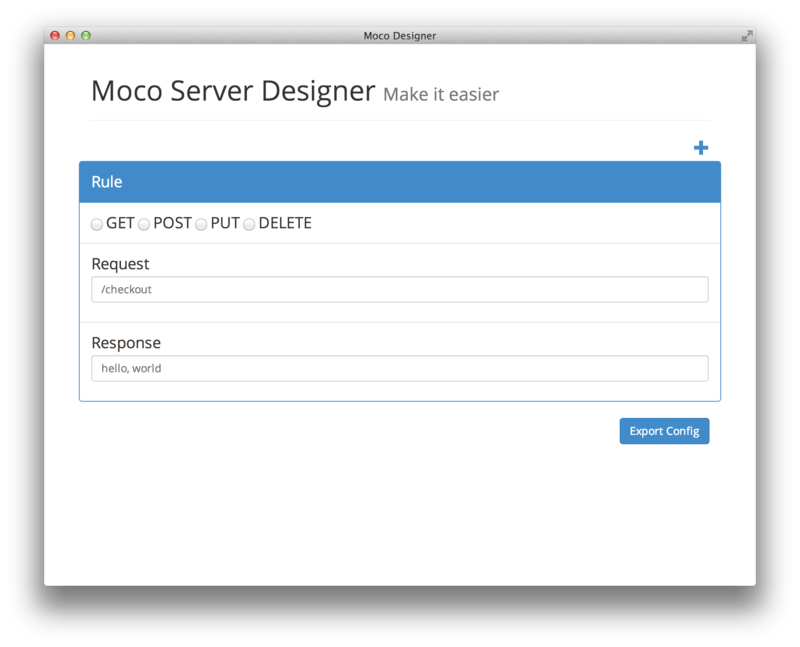
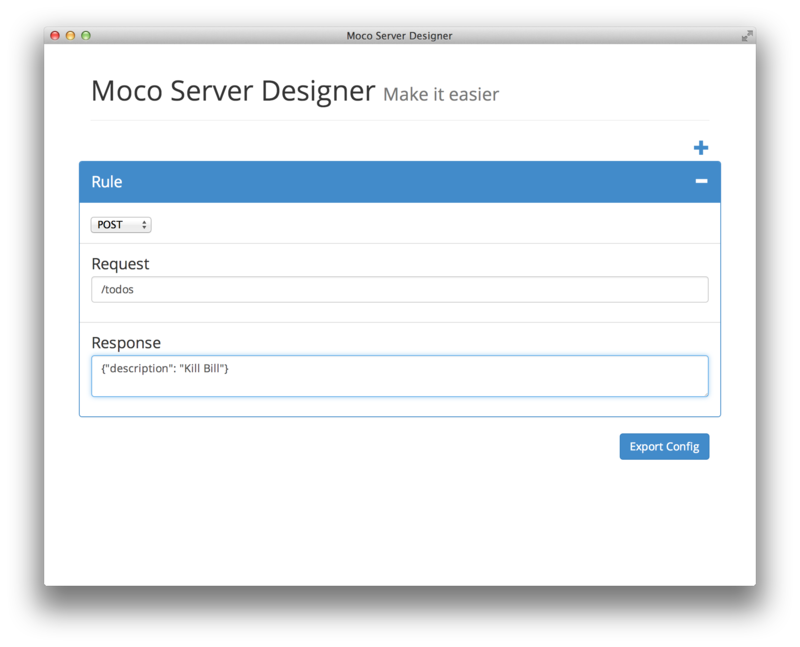
make it work, add rule, exporting, context-menu are now working

diff --git a/public/main.js b/public/main.js
@@ -1,27 +1,92 @@
 var file = require('file.js');
+var fragement = null;
+
+function Menu(cutLabel, copyLabel, pasteLabel) {
+  var gui = require('nw.gui')
+    , menu = new gui.Menu()
+
+    , cut = new gui.MenuItem({
+      label: cutLabel || "Cut"
+      , click: function() {
+        document.execCommand("cut");
+      }
+    })
+
+    , copy = new gui.MenuItem({
+      label: copyLabel || "Copy"
+      , click: function() {
+        document.execCommand("copy");
+      }
+    })
+
+    , paste = new gui.MenuItem({
+      label: pasteLabel || "Paste"
+      , click: function() {
+        document.execCommand("paste");
+      }
+    })
+  ;
+
+  menu.append(cut);
+  menu.append(copy);
+  menu.append(paste);
+
+  return menu;
+}
 
 $(function() {
 	$("#export").on("click", function() {
 		chooseFile("#save");
 	});
 
-  function chooseFile(id) {
-    var chooser = $(id);
-    chooser.change(function(evt) {
-    	var config = $("#config").text();
-		var filename = $(this).val();
-		file.save(filename, config);
-    });
+	file.read("rule.html", function(error, content) {
+		fragement = content;
+	});
 
-    chooser.trigger('click');
-  }
+	$("#addRule").on("click", function() {
+		$("#rules").append(fragement);
+	});
 
-	// var handler = function() {
-	// 	var config = $("#config").text();
-	// 	var filename = $(this).val();
-	// 	alert(filename);
-	// 	// file.save(filename, config);
-	// };
+	$("#rules").on("click", "a.remove", function(event) {
+		event.preventDefault();
+		$(this).closest(".row").remove();
+	})
 
-	// $("#export").on('change', handler);
+	function generateMocoConf() {
+		var rules = $("#rules .row");
+		var config = [];
+
+		$(rules).each(function(index, item) {
+			var method = $('select[name="method"]', item).val();
+			config.push({
+				request: {
+					method: method,
+					uri: $('input[name="uri"]', item).val()
+				},
+				response: {
+					text: $('textarea[name="text"]', item).val()
+				}
+			});
+		});
+
+		return JSON.stringify(config, null, 4);
+	}
+
+	function chooseFile(id) {
+		var chooser = $(id);
+		chooser.change(function(evt) {
+			var config = generateMocoConf();
+			var filename = $(this).val();
+			file.save(filename, config);
+		});
+
+		chooser.trigger('click');
+	}
+
+  var menu = new Menu();
+  $(document).on("contextmenu", function(e) {
+    e.preventDefault();
+    menu.popup(e.originalEvent.x, e.originalEvent.y);
+  });
+
 });

diff --git a/public/index.html b/public/index.html
@@ -4,7 +4,7 @@
     <meta charset="utf-8">
     <meta http-equiv="X-UA-Compatible" content="IE=edge">
     <meta name="viewport" content="width=device-width, initial-scale=1">
-    <title>Moco Designer</title>
+    <title>Moco Server Designer</title>
 
     <link href="style/bootstrap/css/bootstrap.min.css" rel="stylesheet">
     <link href="style/style.css" rel="stylesheet">
@@ -16,43 +16,13 @@
 
     <div class="row">
     	<div class="col-lg-12 col-md-12">
-    		<a href="#" class="pull-right">
+    		<a id="addRule" href="#" class="pull-right">
     			<span class="glyphicon glyphicon-plus"></span>
     		</a>
     	</div>
     </div>
 
-
-    <div class="row">
-		<div class="panel panel-primary">
-		  <div class="panel-heading">Rule
-		  	<a href="#" class="pull-right">
-		  		<span class="glyphicon glyphicon-minus"></span>
-		  	</a>
-		  </div>
-		  <ul class="list-group">
-		  	<li class="list-group-item">
-		  		<div class="input-group">
-			        <input type="radio" name="method" selected="selected"> GET
-			        <input type="radio" name="method"> POST
-			        <input type="radio" name="method"> PUT
-			        <input type="radio" name="method"> DELETE 
-			    </div>
-		  	</li>
-		    <li class="list-group-item">
-		    	Request
-		    	<div class="form-group">
-		    		<input type="text" class="form-control" placeholder="/checkout">
-			    </div>
-		    </li>
-		    <li class="list-group-item">
-		    	Response
-		    	<div class="form-group">
-		    		<input type="text" class="form-control" placeholder="hello, world">
-			    </div>
-		    </li>
-		  </ul>
-		</div>
+    <div id="rules">
     </div>
 	
 	<div class="row">
@@ -63,12 +33,12 @@
     	</div>
     </div>
 
-	<input id="save" type="file" nwsaveas style="display:none" accept="text/*"/>
-	<textarea id="config" style="display:none">{}</textarea>
+    <div class="footer">
+    </div>
 
-    <!-- jQuery (necessary for Bootstrap's JavaScript plugins) -->
+	<input id="save" type="file" nwsaveas style="display:none" accept="text/*"/>
+
     <script src="scripts/jquery.min.js"></script>
-    <!-- Include all compiled plugins (below), or include individual files as needed -->
     <script src="style/bootstrap/js/bootstrap.min.js"></script>
     <script type="text/javascript" src="main.js"></script>
   </body>

diff --git a/public/rule.html b/public/rule.html
@@ -1,0 +1,34 @@
+<div class="row">
+	<div class="panel panel-primary">
+	  <div class="panel-heading">Rule
+	  	<a href="#" class="pull-right remove">
+	  		<span class="glyphicon glyphicon-minus"></span>
+	  	</a>
+	  </div>
+	  <ul class="list-group">
+	  	<li class="list-group-item">
+	  		<div class="input-group">
+	  			<select name="method">
+	  				<option value="get" selected="true">GET</option>
+	  				<option value="post">POST</option>
+	  				<option value="put">PUT</option>
+	  				<option value="delete">DELETE</option>
+	  			</select>
+		    </div>
+	  	</li>
+	    <li class="list-group-item">
+	    	Request
+	    	<div class="form-group">
+	    		<input type="text" class="form-control" name="uri" placeholder="/checkout">
+		    </div>
+	    </li>
+	    <li class="list-group-item">
+	    	Response
+	    	<div class="form-group">
+	    		<textarea class="form-control" name="text" placeholder="content"></textarea>
+	    		<!-- <input type="text" class="form-control" name="text" placeholder="content"> -->
+		    </div>
+	    </li>
+	  </ul>
+	</div>
+</div>

diff --git a/public/style/style.css b/public/style/style.css
@@ -7,3 +7,11 @@ body {
 	margin: 0 auto;
 	font-size: 20px;
 }
+
+a.remove {
+	color: white;
+}
+
+.footer {
+	height: 40px;
+}
